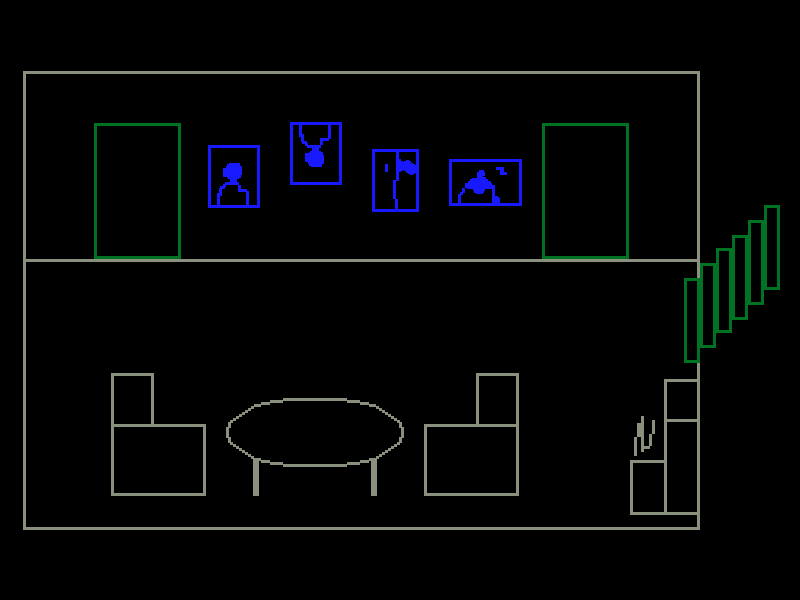
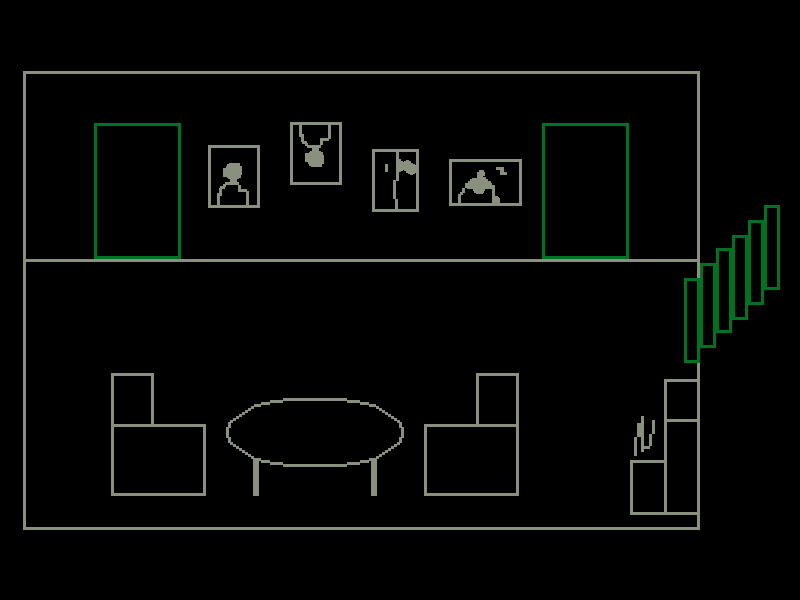
Painting item class

Changed region(s): [[0.25, 0.18, 0.5312, 0.36], [0.5625, 0.24, 0.6562, 0.36]]

diff --git a/src/Painting.cpp b/src/Painting.cpp
@@ -1,0 +1,63 @@
+#include "Painting.h"
+
+Painting::Painting(vector<string> inputVector){
+    this->position = Position(stoi(inputVector.at(0)), stoi(inputVector.at(1)));
+    this->filepath = "../data/painting_" + inputVector.at(2) + ".png";
+    
+    if(inputVector.at(2) == "1" || inputVector.at(2) == "2"){
+      mySize.x = 52;
+      mySize.y = 63;
+    }
+    else if(inputVector.at(2) == "3"){
+      mySize.x = 47;
+      mySize.y = 63;
+    }
+    else{
+      mySize.x = 73;
+      mySize.y = 47;
+    }
+
+}
+void Painting::init(){
+    this->myDialogue = "A painting!";
+    canBeDestroyed = true;
+    
+
+}
+Position Painting::getPosition(){
+    return position;
+}
+
+void Painting::setPosition(float x, float y){
+    position.x = x;
+    position.y = y;
+}
+
+string Painting::interact(PlayerActor &player){
+    return myDialogue;
+}
+
+bool Painting::nextToPlayer(PlayerActor &player){
+    bool close = false;
+    int diffx = abs(player.getPosition().x - (this->getPosition().x + mySize.x/2));
+    int diffy = abs(player.getPosition().y - (this->getPosition().y + mySize.y/2));
+    if(diffx < mySize.x/2 + 10 && diffy < mySize.y/2 + 40){
+        close = true;
+    }
+    return close;
+}
+
+void Painting::setSize(sf::Vector2f size){
+  mySize.x = size.x;
+  mySize.y = size.y;
+
+}
+
+void Painting::setSize(float x, float y){
+  mySize.x = x;
+  mySize.y = y;
+}
+
+sf::Vector2f Painting::getSize(){
+  return mySize;
+}

diff --git a/include/Painting.h b/include/Painting.h
@@ -1,0 +1,30 @@
+#ifndef PAINTING_H // include guard
+#define PAINTING_H
+#include <SFML/Graphics.hpp>
+#include <cmath>  
+#include "ItemActor.h"
+#include "PlayerActor.h"
+
+
+
+using namespace std;
+class Painting : public ItemActor {
+
+    public:
+        Painting() {};
+        Painting(std::vector<std::string> inputVector);
+
+        void init();
+        Position getPosition();
+        void setPosition(float x, float y);
+        string interact(PlayerActor &player);
+        sf::Vector2f getSize();
+        void setSize(sf::Vector2f size);
+        void setSize(float x, float y);
+        bool nextToPlayer(PlayerActor &player);
+
+    
+    private:    
+};
+
+#endif

diff --git a/src/GameView.cpp b/src/GameView.cpp
@@ -195,6 +195,7 @@ void GameView::updatePlayerAnimation(float dt){
 }
 
 void GameView::loadItemsandDialogueBox(){
+  //work on streamlining this
   Room tempRoom = levelManager.getCurrentRoom();
 
   for(int i = 0; i < tempRoom.getItems().size(); i++) {
@@ -240,6 +241,8 @@ void GameView::render(){
     this->App->draw(sprite_monster);
     this->App->draw(sprite_counter);
     this->App->draw(counterText);
+    // this->App->draw(dialoguebox.dialogueBox);
+    // this->App->draw(dialoguebox.message);
 
 }
 

diff --git a/src/Room.cpp b/src/Room.cpp
@@ -103,6 +103,16 @@ void Room::setUpRoom(std::string roomName){
 			myItems.push_back(new Bathtub(forBathtub));
 			myItems.at(myItems.size() - 1)->init();
 		}
+
+		else if (!result.at(0).find("PAINTING")){
+			vector<string>forPainting;
+			for(int i = 1; i < result.size(); i++){
+				forPainting.push_back(result.at(i));
+			}
+
+			myItems.push_back(new Painting(forPainting));
+			myItems.at(myItems.size() - 1)->init();
+		}
 		
     }
 

diff --git a/include/Room.h b/include/Room.h
@@ -14,6 +14,7 @@
 #include "Bookcase.h"
 #include "Safe.h"
 #include "Bathtub.h"
+#include "Painting.h"
 
 class Room
 {
